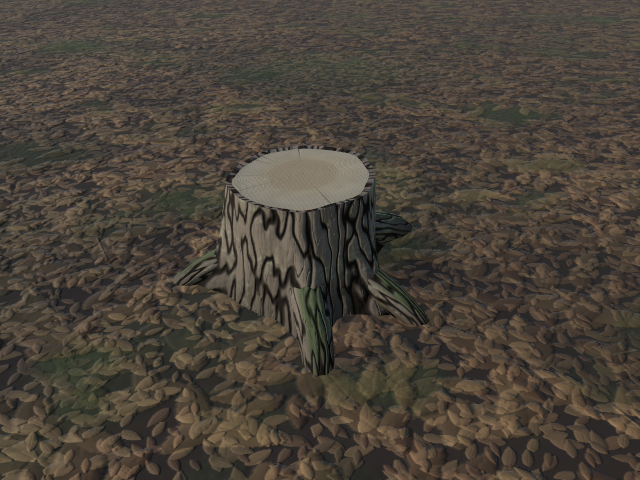
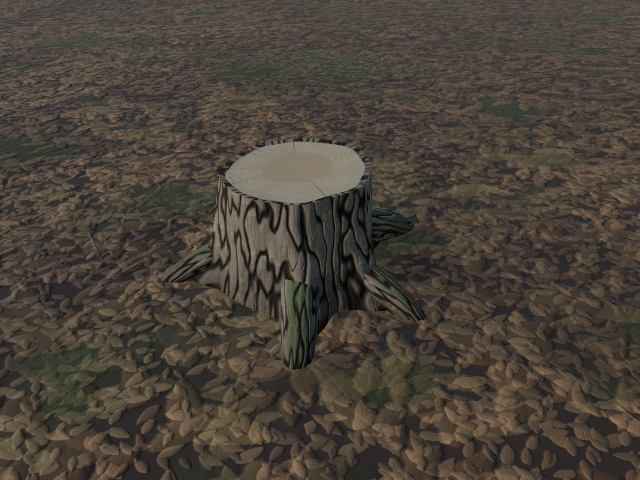
root-stump: old stump with arching exposed roots; log-stump rootReach and rootArch knobs

diff --git a/Sources/RealLibrary/Nature/Wood/LogStump.swift b/Sources/RealLibrary/Nature/Wood/LogStump.swift
@@ -24,6 +24,10 @@ public struct LogStump: RealAsset {
     public var barkThickness: Float = 0.022
     /// Cut tilt in degrees (chainsaw cuts are rarely level).
     public var tilt: Float = 4
+    /// Surface root length as a multiple of the trunk radius scale (1 = short buttress roots).
+    public var rootReach: Float = 1
+    /// Height the roots arch above the ground before diving in, meters (eroded banks expose them).
+    public var rootArch: Float = 0
     public var bark: MaterialKey = "bark.oak-mossy"
     /// Bark seen in cross-section on the cut (no moss).
     public var barkEdge: MaterialKey = "bark.oak"
@@ -93,9 +97,9 @@ public struct LogStump: RealAsset {
                 for (ra, sz) in zip(rootAngles, rootSize) {
                     let d = V3(cos(ra), 0, -sin(ra))
                     let r0 = radius(ra, 0.04)
-                    let len = R * rng.float(0.7...1.2) * sz
+                    let len = R * rng.float(0.7...1.2) * sz * rootReach
                     let side = V3(-d.z, 0, d.x) * rng.float(-0.15...0.15)
-                    let pts = catmull([d * (r0 * 0.55) + V3(0, 0.12, 0), d * (r0 + len * 0.45) + side * len + V3(0, 0.0, 0),
+                    let pts = catmull([d * (r0 * 0.55) + V3(0, 0.12, 0), d * (r0 + len * 0.45) + side * len + V3(0, rootArch * rng.float(0.6...1.2), 0),
                                        d * (r0 + len) + side * len * 1.6 + V3(0, -0.16, 0)], per: 5)
                     let radii = pts.indices.map { i in R * 0.3 * sz * (1 - 0.6 * Float(i) / Float(pts.count - 1)) }
                     var root = Prim.tube(pts, radii: radii, sides: 10, seamTile: MaterialLibrary.spec(for: bark).tileSize, material: bark)

diff --git a/Sources/RealLibrary/Nature/Wood/RootStump.swift b/Sources/RealLibrary/Nature/Wood/RootStump.swift
@@ -1,0 +1,25 @@
+import simd
+import Foundation
+
+/// Old stump on eroded ground, 70 cm across and 30 cm tall: wide flare and eight surface roots that arch
+/// out of the soil up to 1 m from the trunk before diving back in; mossy bark and a grey, checked top.
+public struct RootStump: RealAsset {
+    public static let id = "root-stump"
+    public static let summary = "Old stump with exposed roots, 70 cm across: wide flare, eight arching surface roots, mossy bark, grey checked top."
+    public static let tags = ["nature", "wood"]
+    public static let budget = 6_000
+    public static let author = "realforge"
+    public static let preview = PreviewHint(azimuth: 30, elevation: 30, distance: 1.0)
+
+    public var diameter: Float = 0.7
+    public var height: Float = 0.3
+    public var roots = 8
+    public init() {}
+
+    public func build(seed: UInt64) -> LODModel {
+        LogStump().with {
+            $0.diameter = diameter; $0.height = height; $0.roots = roots
+            $0.flare = 0.75; $0.rootReach = 2.2; $0.rootArch = 0.07; $0.tilt = 6
+        }.build(seed: seed)
+    }
+}

diff --git a/Sources/RealLibrary/Nature/Nature.swift b/Sources/RealLibrary/Nature/Nature.swift
@@ -6,6 +6,7 @@ public enum Nature {
         LogStump.self,
         Firewood.self,
         FallenLog.self,
+        RootStump.self,
         // realforge:nature
     ]
 }
